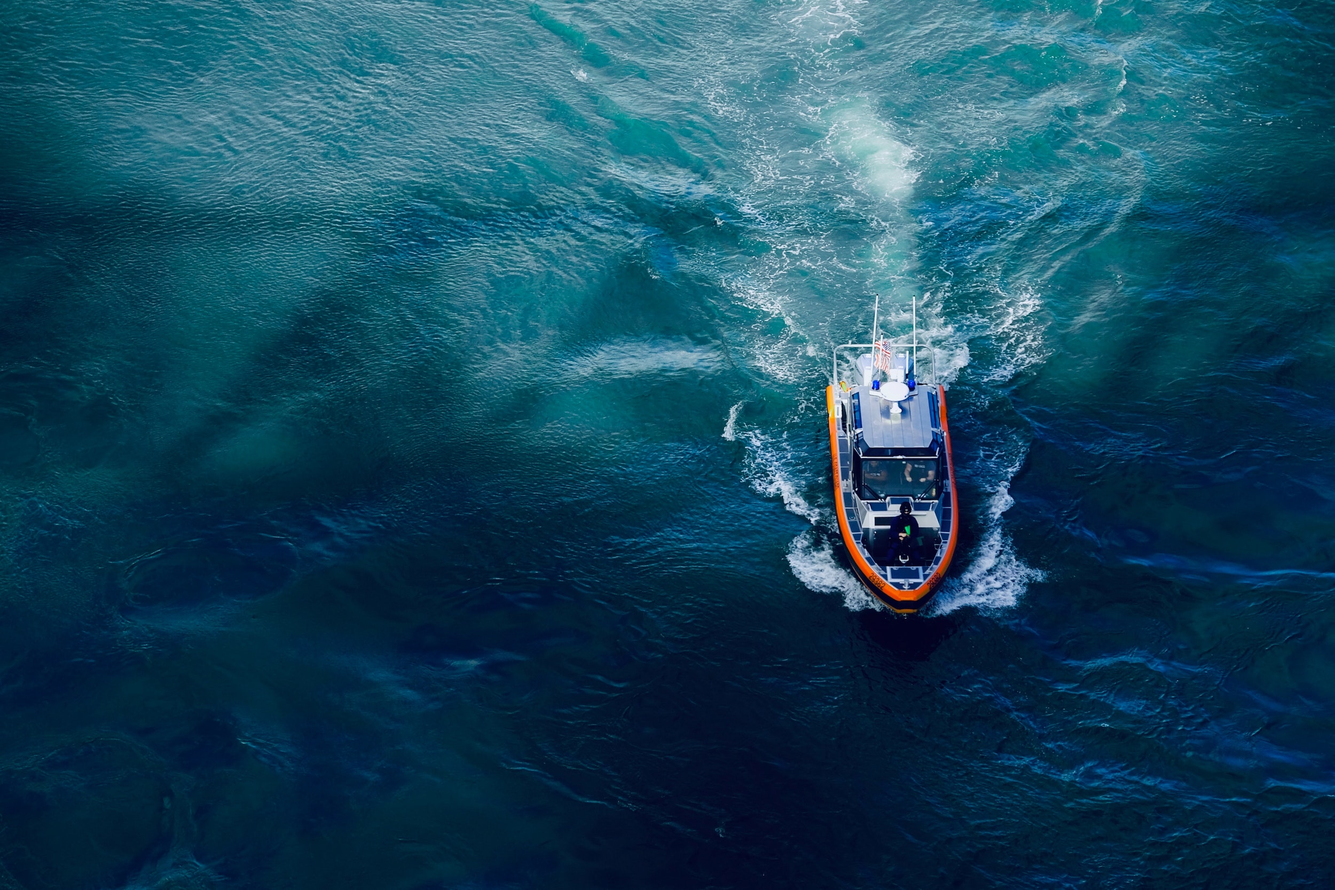
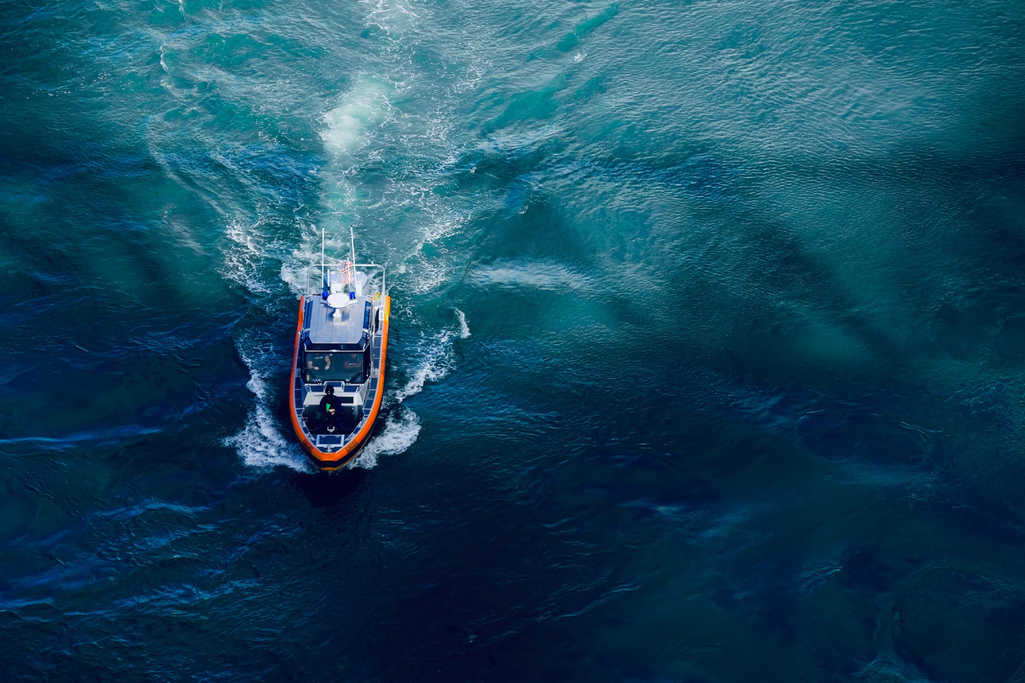
Published the login page UI

diff --git a/public/assets/css/loginpage.css b/public/assets/css/loginpage.css
@@ -1,12 +1,88 @@
-html, body{
+@import url("./vazir-font.css");
+
+html,
+body {
     direction: rtl;
     margin: 0;
     padding: 0;
     width: 100%;
     height: 100vh;
     display: flex;
-    justify-content: center;
+    justify-content: flex-start;
     align-items: center;
-    background: url('../imgs/login-texture.png');
-    background-repeat: repeat;
+    background: url("../imgs/hydrographic.jpg");
+    background-repeat: no-repeat;
+    background-size: cover;
+    direction: rtl;
+}
+.overlay {
+    position: absolute;
+    top: 0;
+    left: 0;
+    right: 0;
+    bottom: 0;
+    width: 100%;
+    height: 100vh;
+    background: rgba(0, 0, 0, 0.2);
+    backdrop-filter: blur(5px);
+    z-index: 0;
+}
+
+.form-group {
+    display: flex;
+    flex-direction: column;
+    align-items: center;
+    z-index: 1;
+    background-color: #022d3a99;
+    padding-left: 5%;
+    padding-right: 5%;
+    border-radius: 12px;
+    row-gap: 2vh;
+    height: 100vh;
+    justify-content: center;
+}
+
+.title {
+    color: white;
+    font-family: Vazir !important;
+}
+
+.input_data {
+    width: 25vw;
+    padding: 12px 15px;
+    border: 0px solid #f8f8f8;
+    background-color: #f8f8f8;
+    border-radius: 5px;
+    margin-bottom: 15px;
+    font-family: Vazir;
+    font-weight: 400;
+    font-size: 1.1rem;
+    direction: ltr;
+    text-align: center;
+}
+
+.submit_button {
+    background-color: #6675e0;
+    border: none;
+    border-radius: 5px;
+    width: 100%;
+    padding: 12px 15px;
+    color: white;
+    font-family: Vazir;
+    font-weight: 400;
+    font-size: 1.2rem;
+}
+
+.error {
+    margin-top: 20px;
+    color: white;
+    font-family: Vazir;
+    align-self: flex-end;
+    font-weight: bold;
+    font-size: 18px;
+}
+
+.ncc-logo {
+    width: 15vw;
+    height: auto;
 }

diff --git a/resources/views/auth/login.blade.php b/resources/views/auth/login.blade.php
@@ -1,13 +1,18 @@
 @extends('auth.layout')
 
 @section('form')
-    <form action="{{ route('auth.getphone') }}" method="post">
+    <div class="overlay"></div>
+    <form action="{{ route('auth.getphone') }}" method="post" class="form-group">
         @csrf
-        <input type="tel" name="phone" placeholder="شماره تلفن" required />
-        <button type="submit">دریافت کد</button>
+        <img src="{{ asset('assets/imgs/ncc-logo-white.png') }}" alt="Logo" class="ncc-logo" />
+        <h1 class="title">ورود به حساب کاربری</h1>
+        <input type="tel" name="phone" placeholder="شماره تلفن" required class="input_data" />
+        <button type="submit" class="submit_button">دریافت کد</button>
 
         @error('phone')
-            کاربر یافت نشد
+            <span class="error">
+                کاربر یافت نشد
+            </span>
         @enderror
     </form>
 @endsection

diff --git a/resources/views/auth/layout.blade.php b/resources/views/auth/layout.blade.php
@@ -1,16 +1,25 @@
 <!DOCTYPE html>
 <html lang="fa">
+
 <head>
     <meta charset="UTF-8">
     <meta name="viewport" content="width=device-width, initial-scale=1.0">
     <meta http-equiv="X-UA-Compatible" content="ie=edge">
     <title>ورود به پنل کاربری</title>
-
+    <!-- Tell the browser to be responsive to screen width -->
+    <meta name="viewport" content="width=device-width, initial-scale=1">
+    <!-- Font Awesome -->
+    <link rel="stylesheet" href="{{ asset('assets/dashboard/plugins/font-awesome/css/font-awesome.min.css') }}">
+    <!-- template -->
     <link rel="stylesheet" href="{{ asset('assets/css/loginpage.css') }}">
+
 </head>
+
 <body>
 
     @yield('form')
-    
+
+    <script src="{{ asset('assets/dashboard/plugins/jquery/jquery.min.js') }}"></script>
 </body>
+
 </html>
